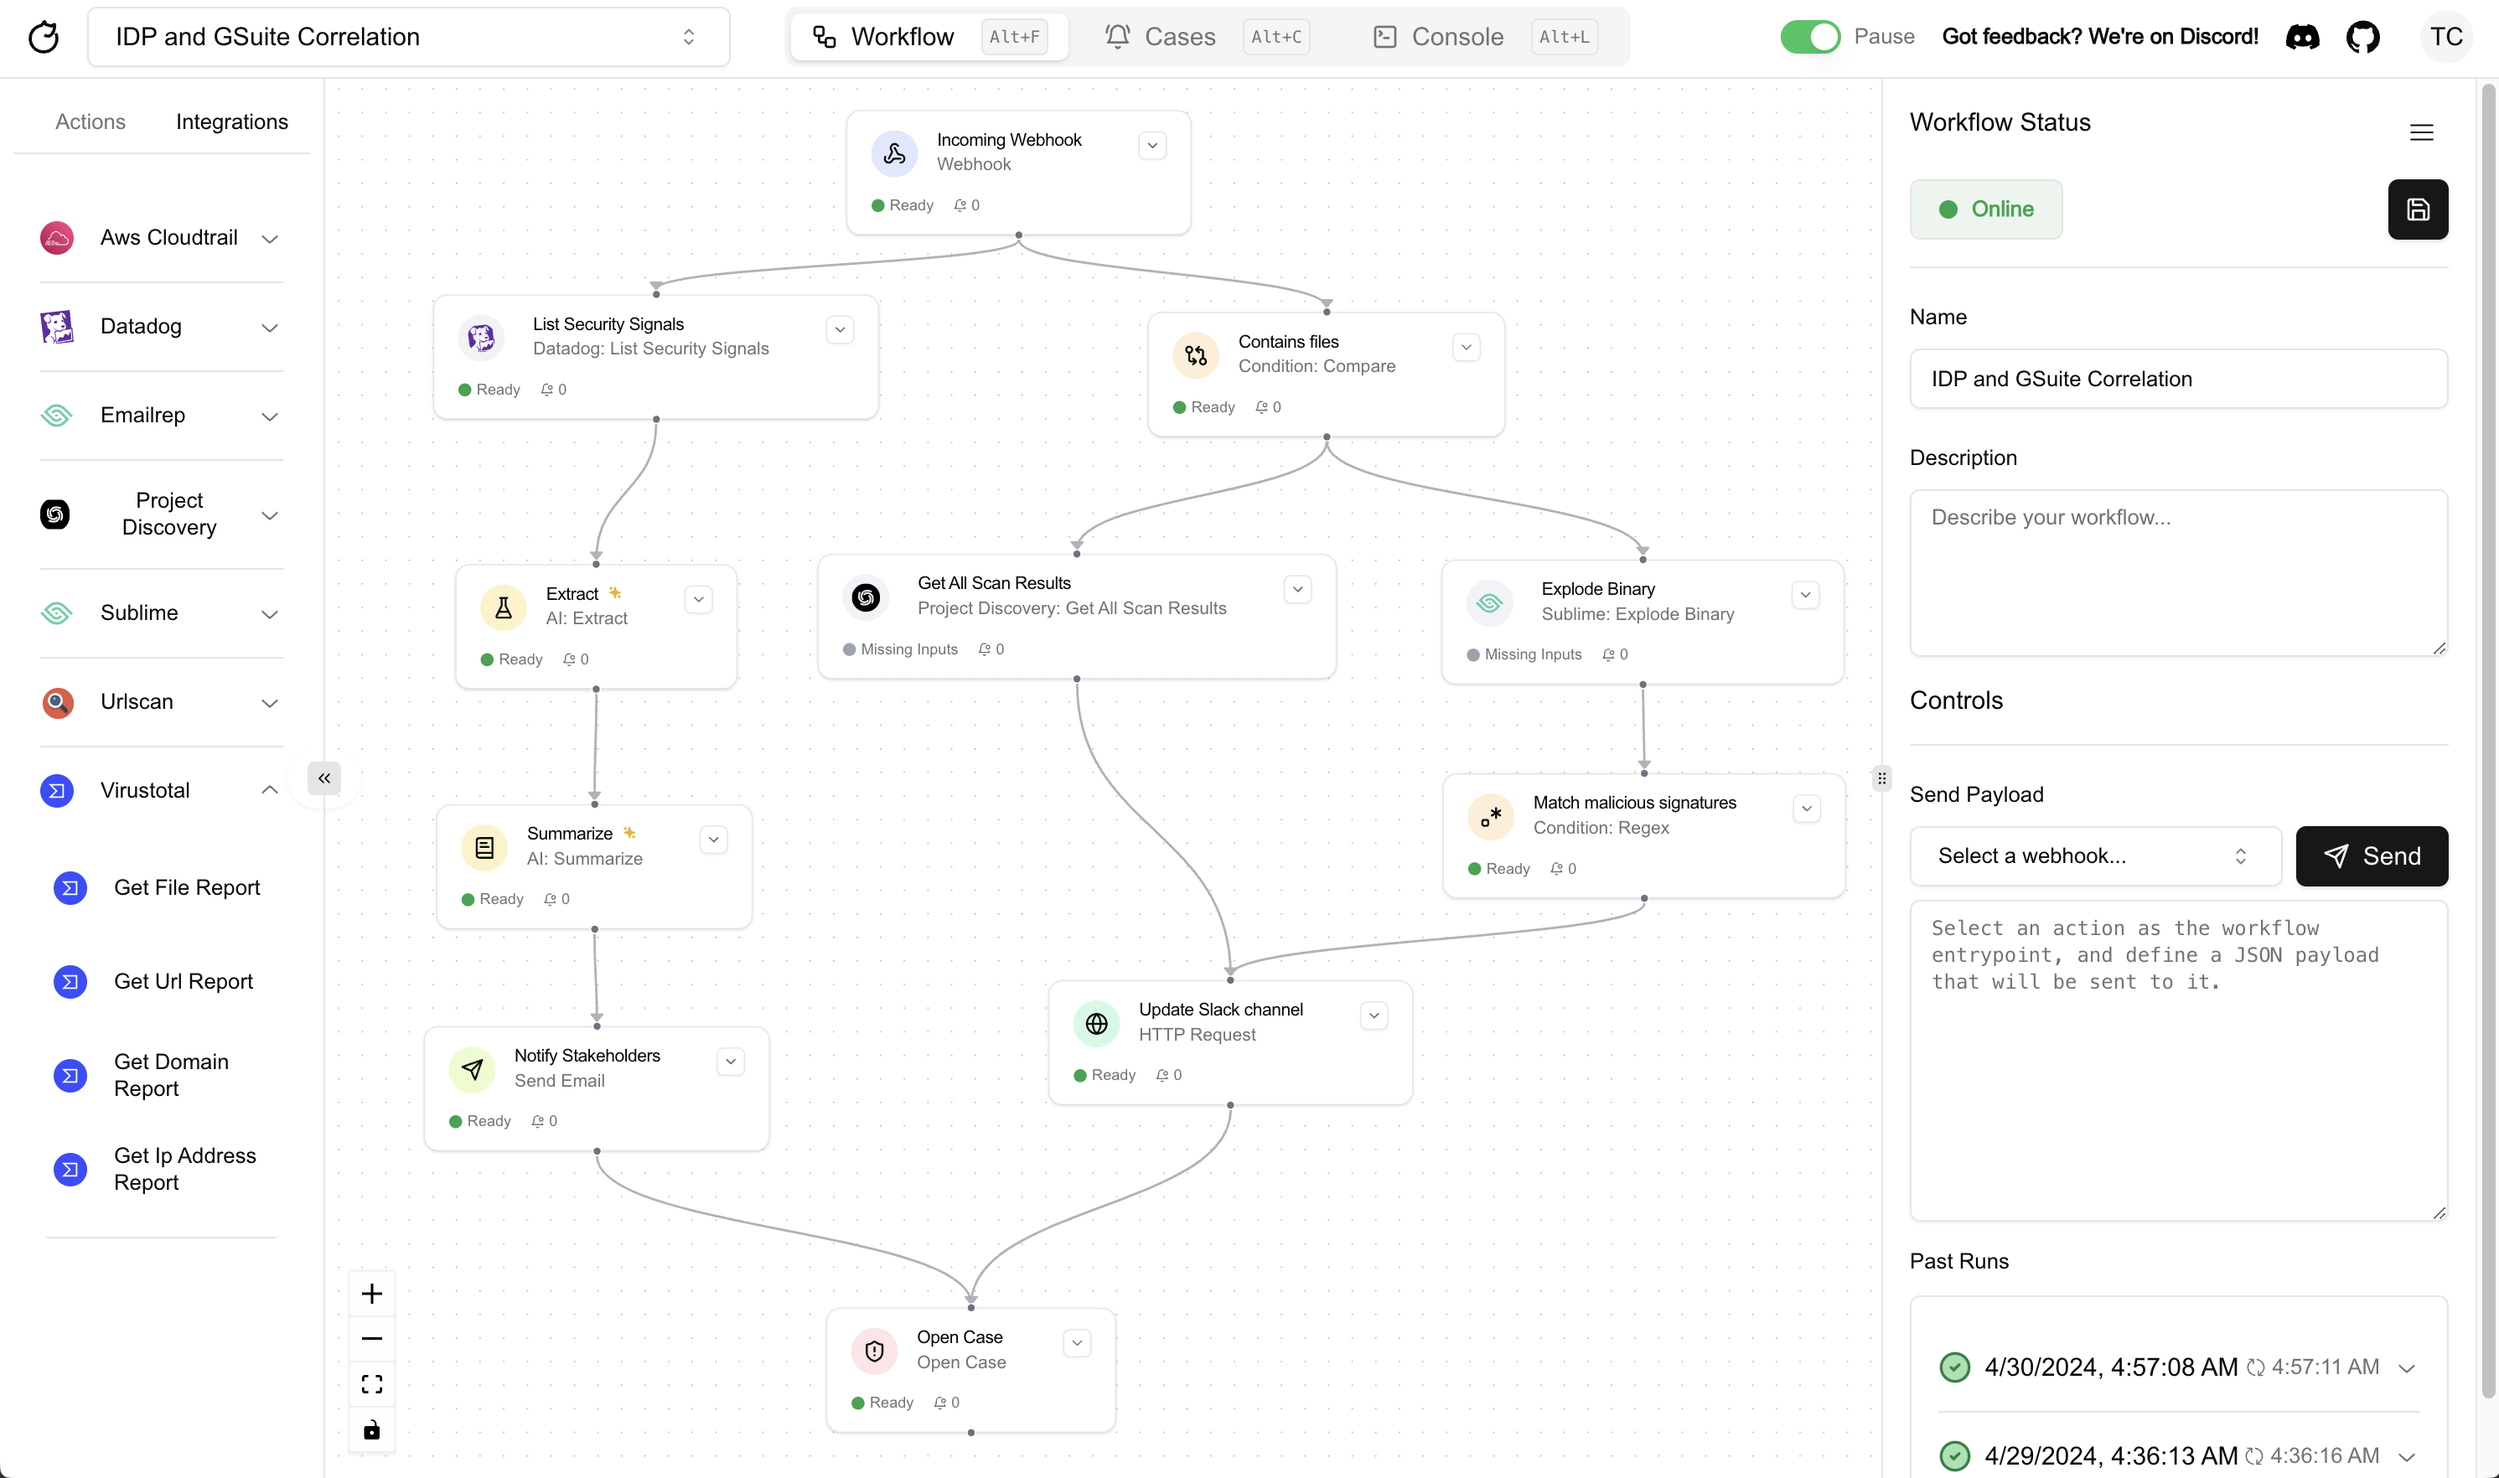
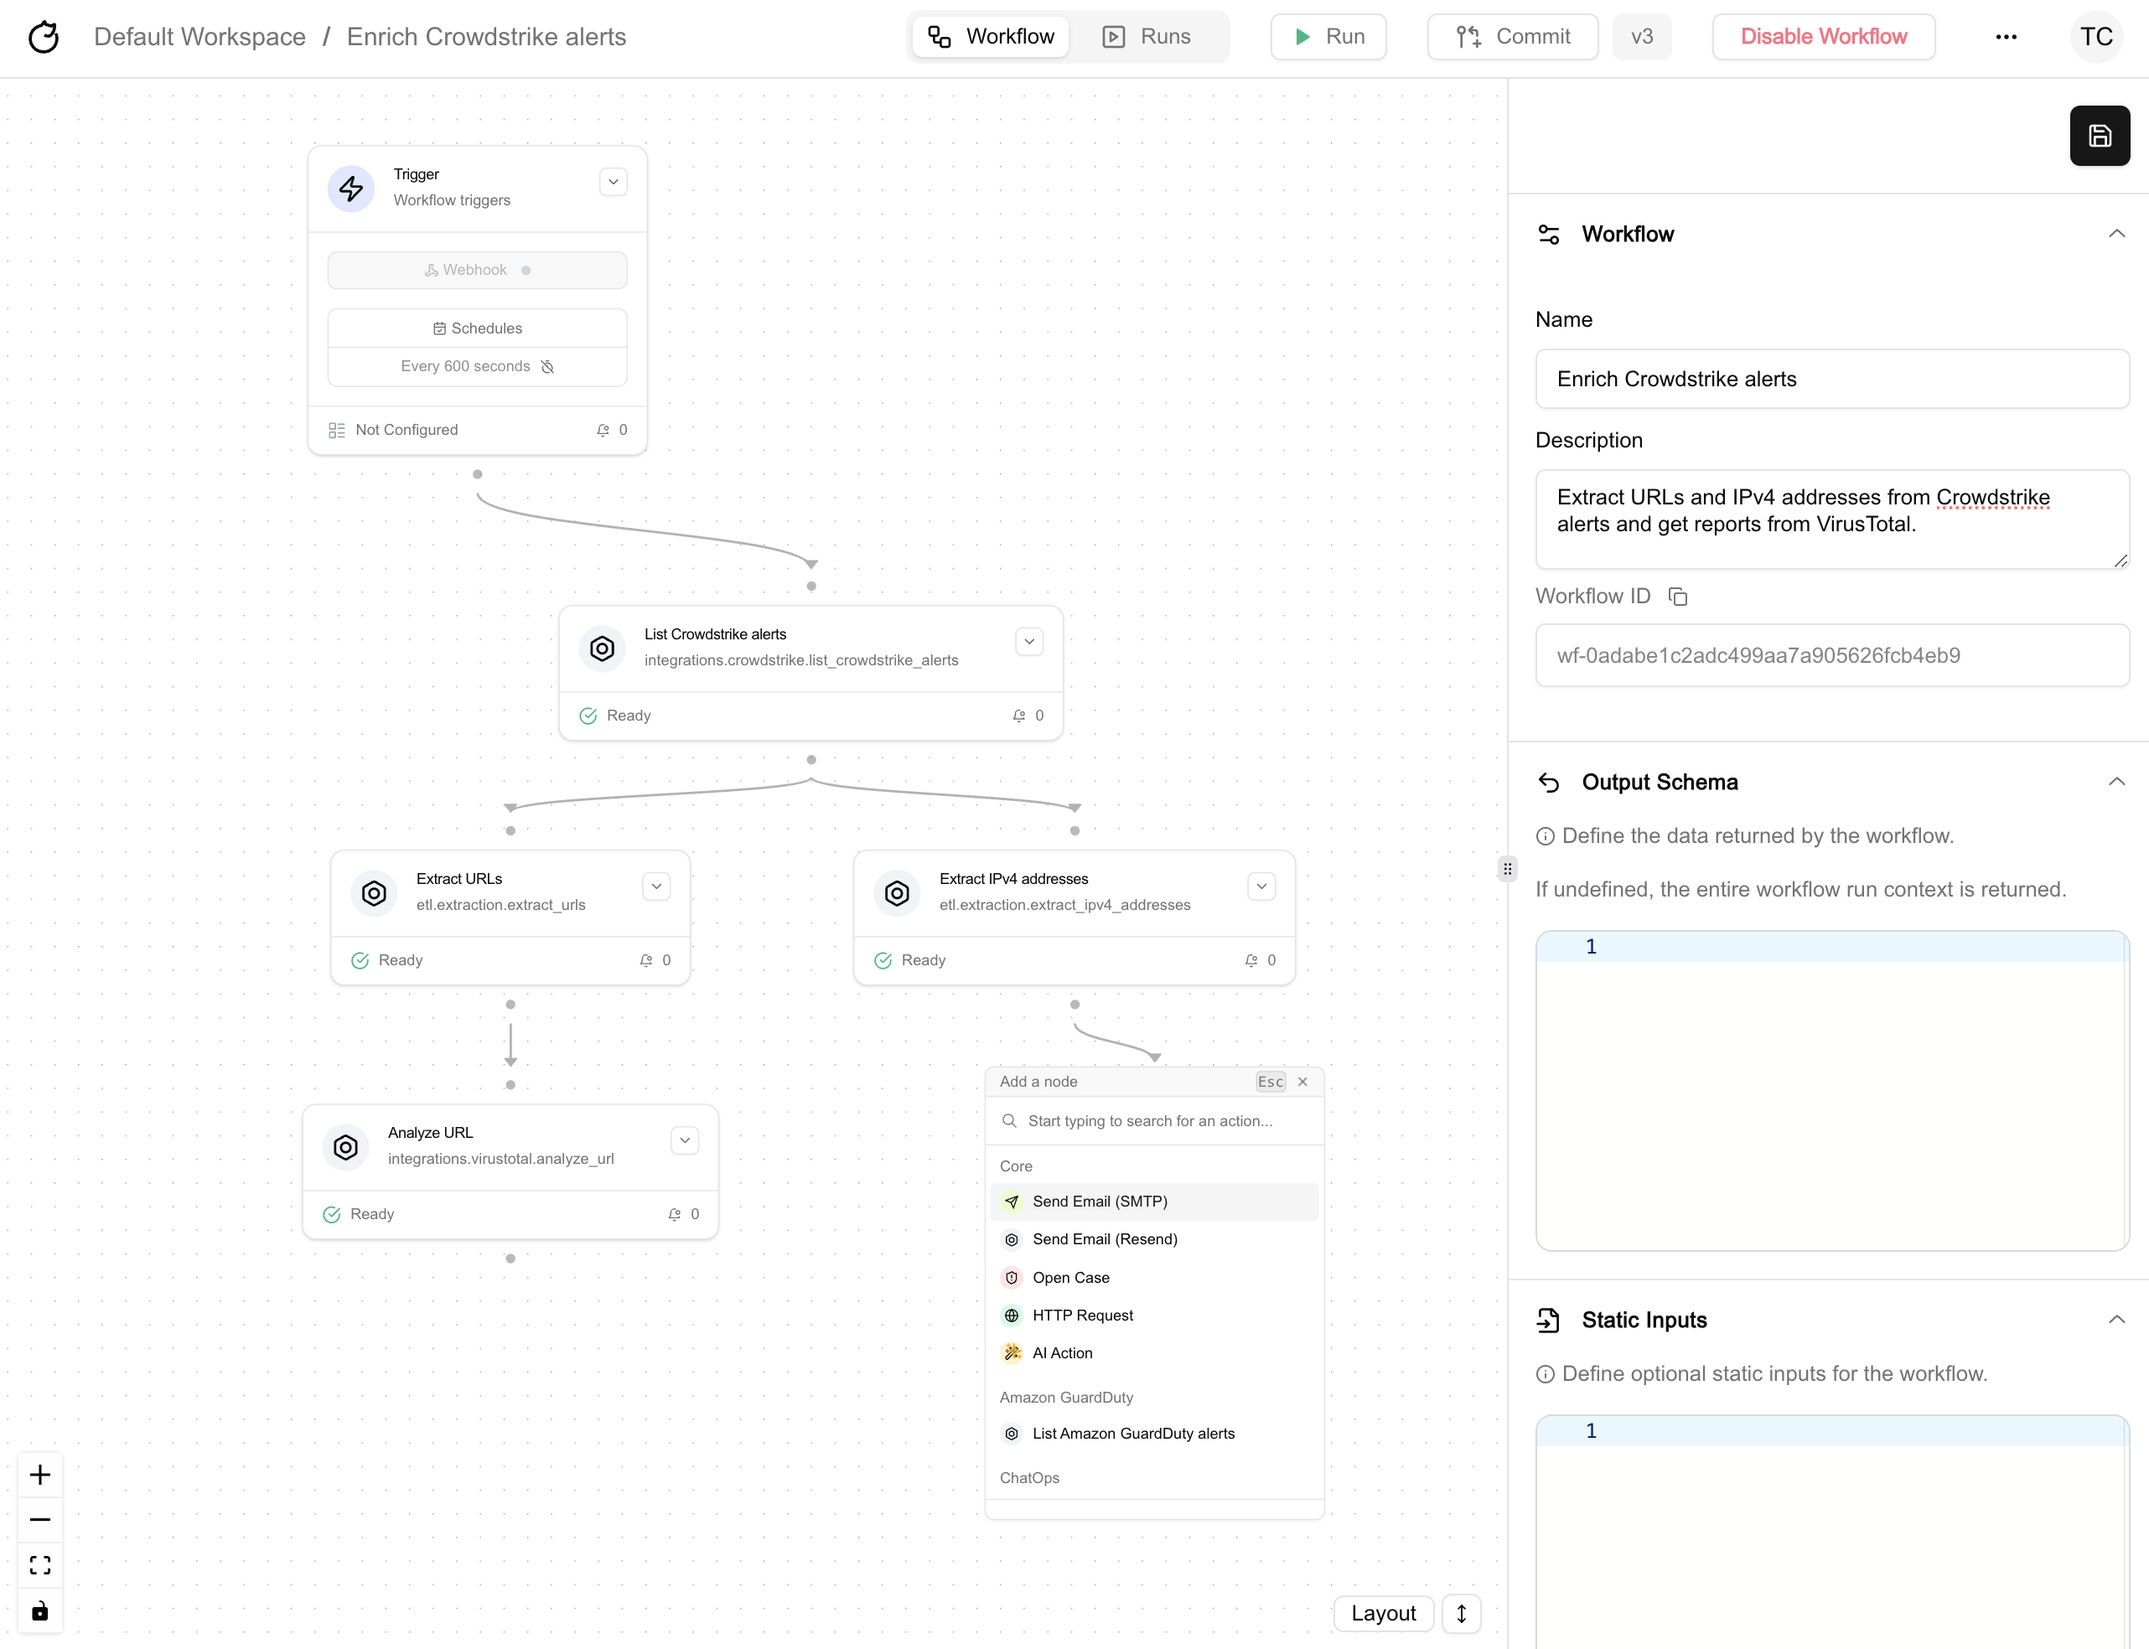
docs: Update images in README

diff --git a/README.md b/README.md
@@ -58,8 +58,8 @@ No-code workflows are automatically synced into code, and vice versa. Tracecat e
       <img src="img/workflow.png" alt="Build security workflows" width="100%" />
     </td>
     <td align="center" width="50%">
-      <h4>Close security cases fast with AI</h4>
-      <img src="img/cases.gif" alt="Manage security cases with AI" width="100%" />
+      <h4>Case management</h4>
+      <img src="img/cases.gif" alt="Manage cases directly in Tracecat" width="100%" />
     </td>
   </tr>
 </table>
